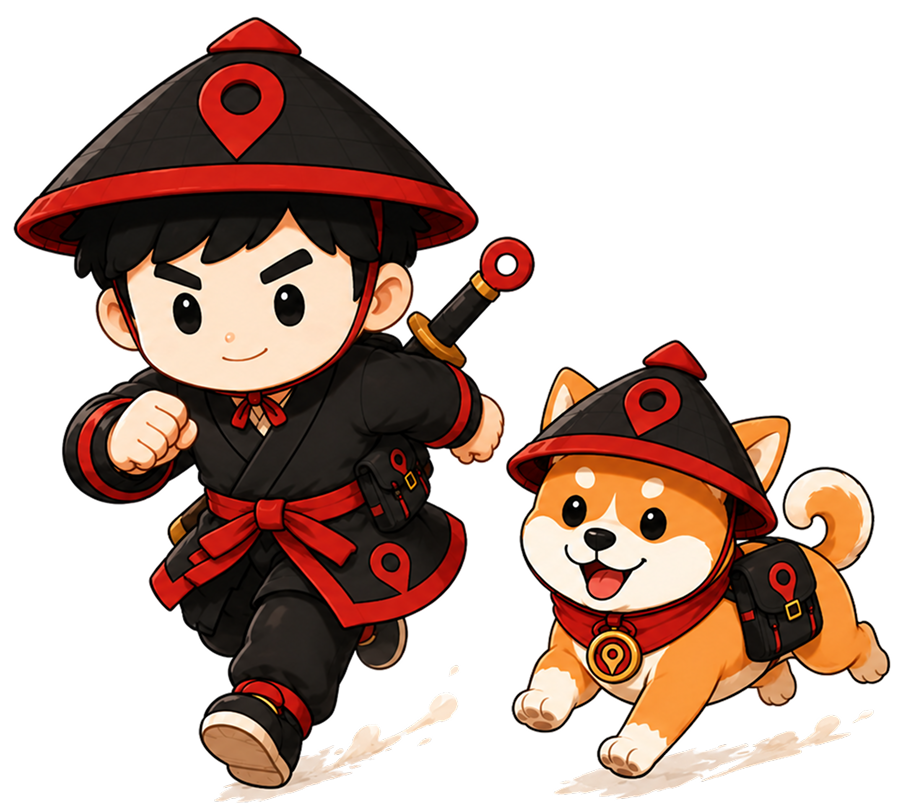
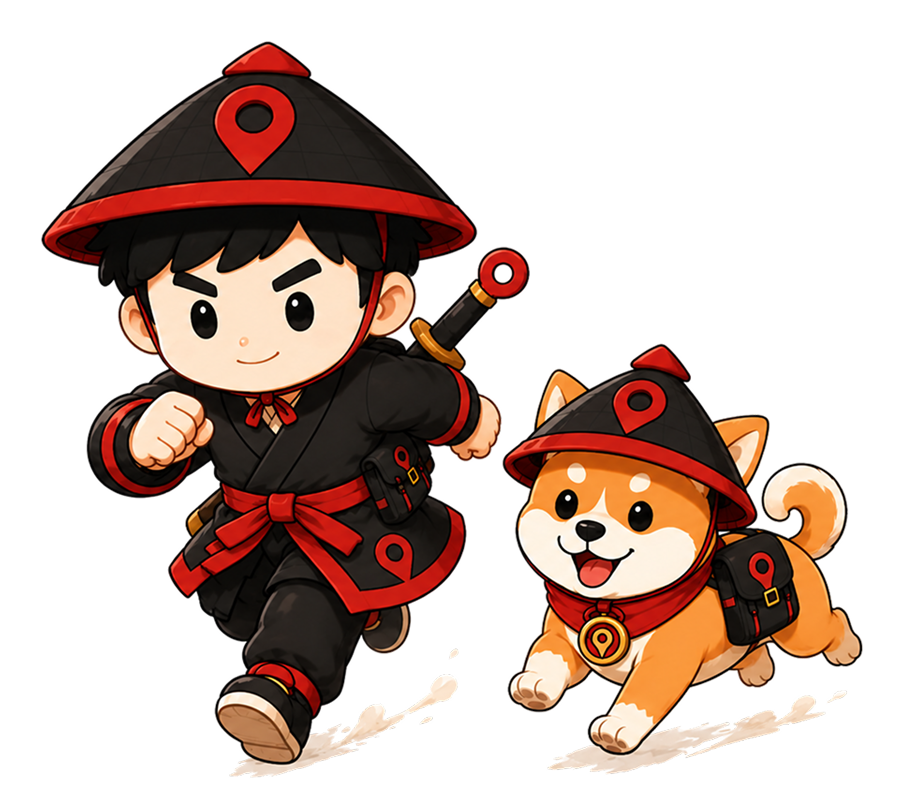
소개 히어로 이미지 교체 (+캐시버스트)

Changed region(s): [[0.0, 0.0, 0.9922, 0.9877]]

diff --git a/index.html b/index.html
@@ -546,7 +546,7 @@
               <h3 class="intro-hero-title">흩어진 협찬을 모아<br>지도 위에 담았습니다</h3>
               <p class="intro-hero-sub">여러 플랫폼에 흩어진 협찬 정보를<br>지도 위에서 한 번에 확인하세요.</p>
             </div>
-            <img src="image/hero-image.png" alt="무협맵 캐릭터" class="intro-hero-img">
+            <img src="image/hero-image.png?v=2" alt="무협맵 캐릭터" class="intro-hero-img">
             <div class="intro-hero-desc">
               <p>무협맵은 다양한 협찬 정보를<br>지도 기반으로 모아 보여주는 서비스입니다.</p>
               <p>또한 실제 방문 후기까지 함께 확인하며<br>원하는 협찬을 더욱 쉽게 찾을 수 있습니다.</p>
